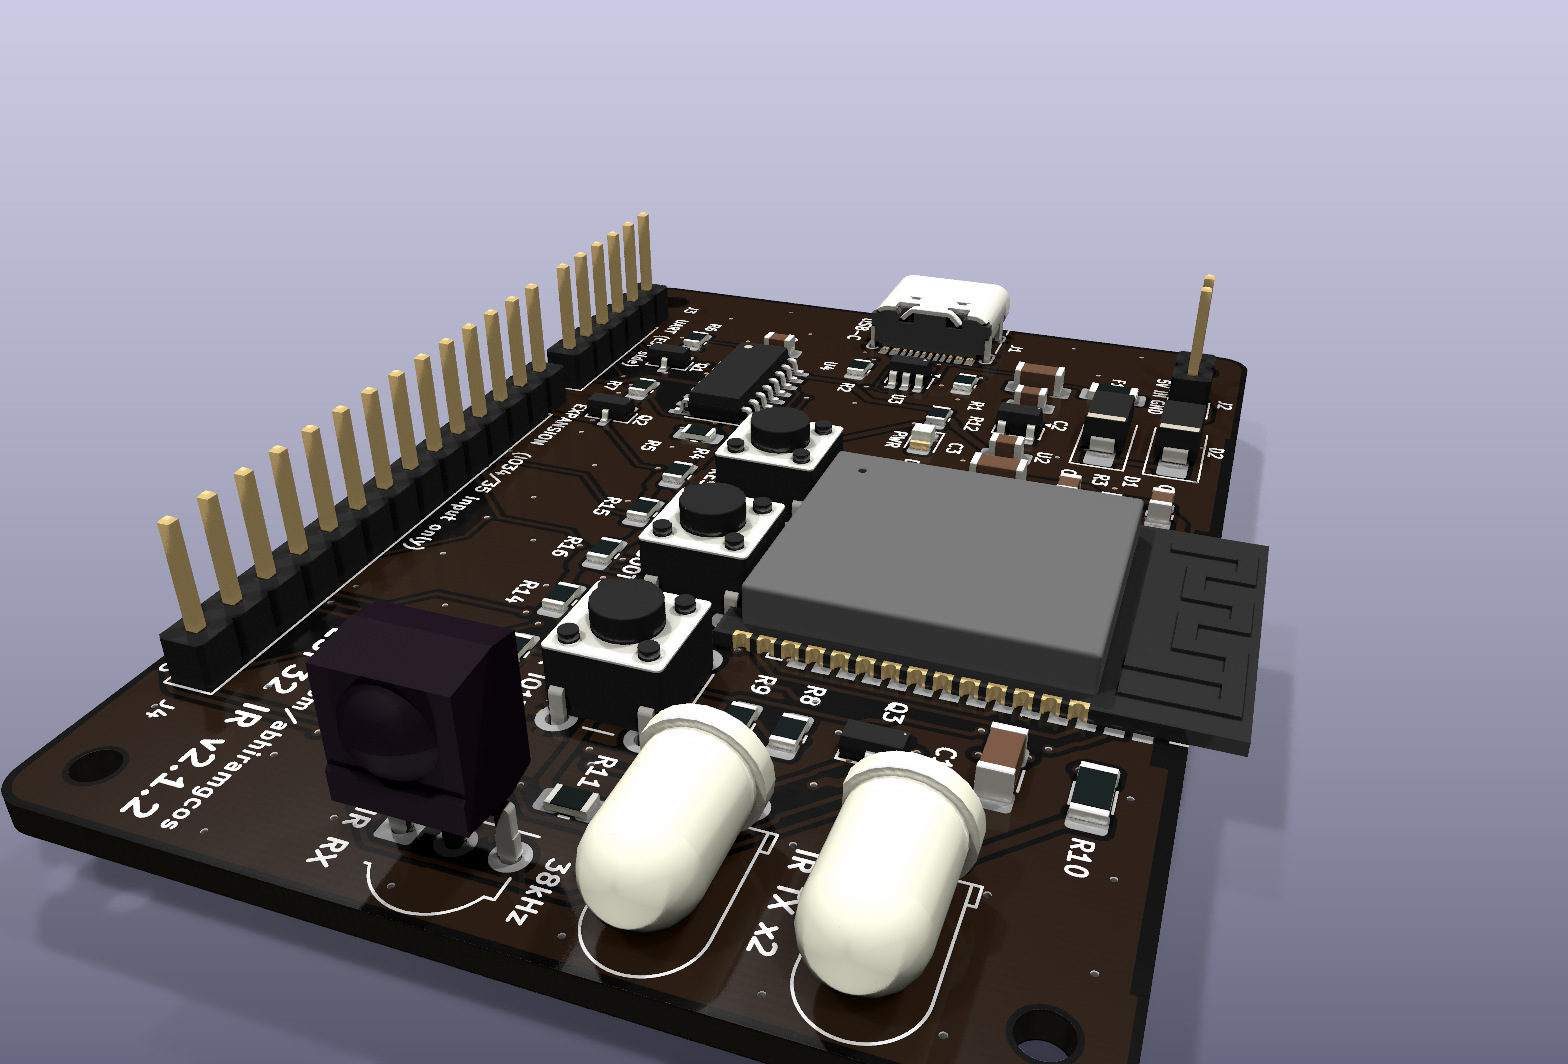
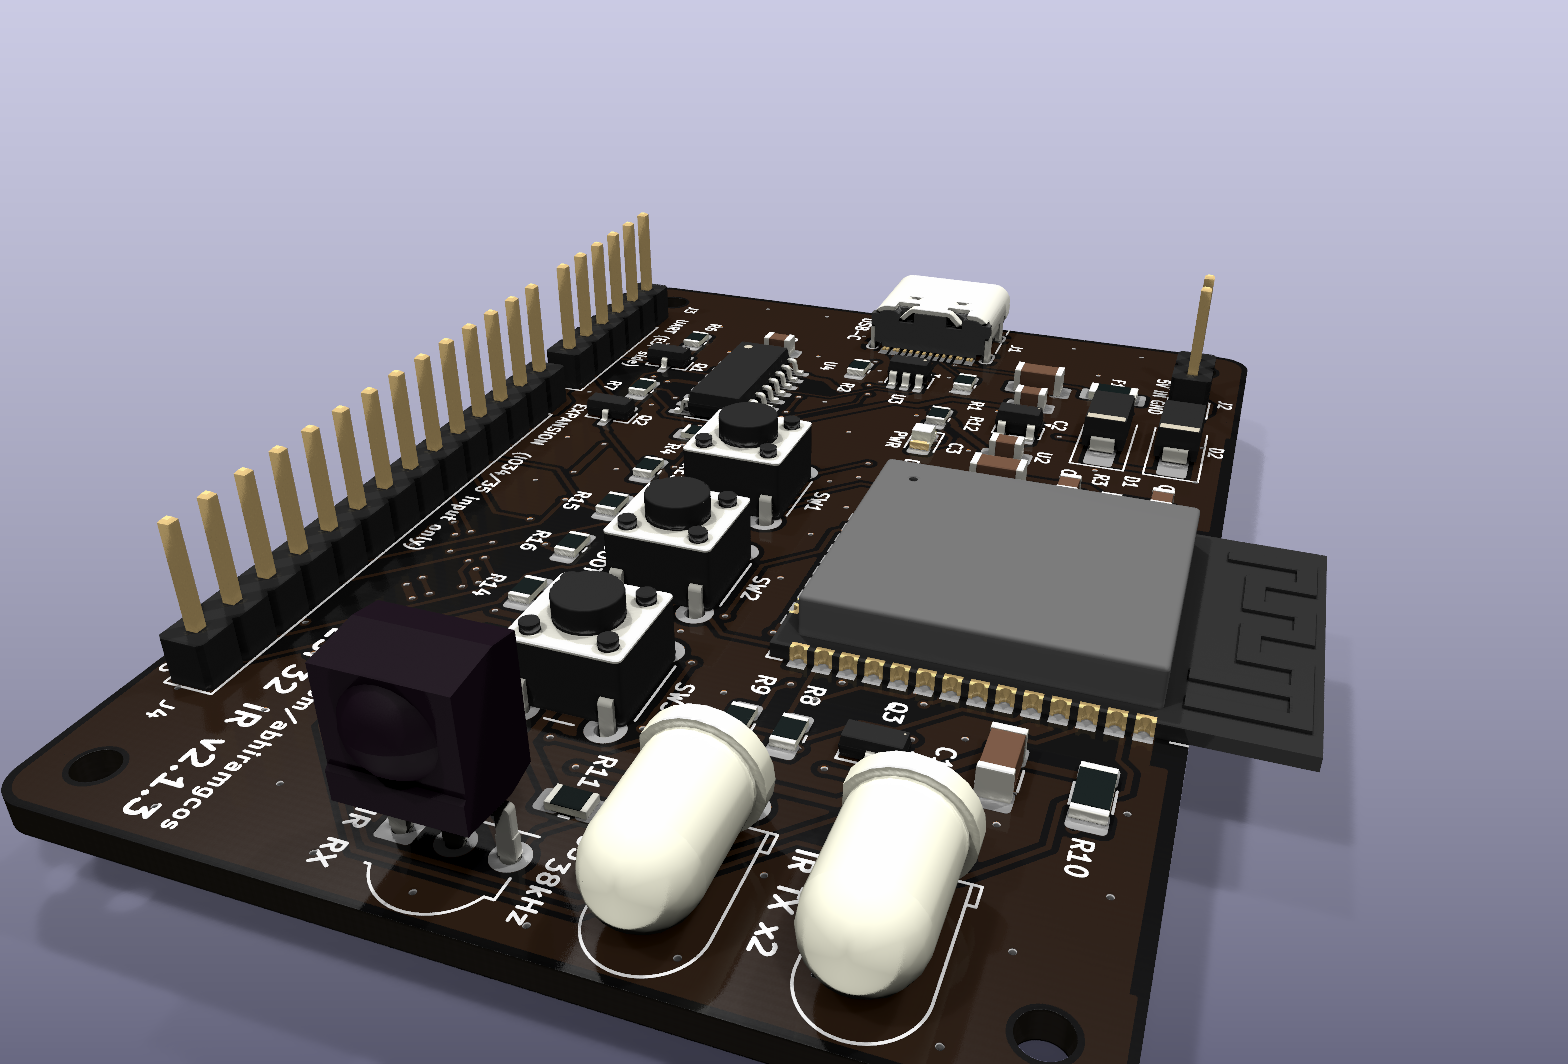
docs: v2.1.3 renders and changelog

diff --git a/CHANGELOG.md b/CHANGELOG.md
@@ -2,6 +2,16 @@
 
 Hardware and firmware share one version number. Hardware revisions are printed on the PCB silkscreen.
 
+## [2.1.3] - 2026-11-20
+
+* Buttons (SW1–SW3) and the pull-up/LED row below them moved 2 mm down, away from the ESP32. The gap from
+  the module's bottom pads to the button pads grows from 1.5 mm to 3.5 mm (bodies 2.1 → 4.1 mm), leaving
+  room for a soldering iron or hot-air nozzle on the module's bottom pins.
+* Fixed the ESP32 3D model position: the -32E model was rendered 2.99 mm too low on the -32D footprint
+  (different footprint origins), which made the module look like it overlapped the buttons. Renders only;
+  copper and manufacturing files were never affected.
+* Board re-routed; BOM unchanged, pick-and-place updated. Firmware stays 2.1.1.
+
 ## [2.1.2] - 2026-11-20
 
 Silkscreen only; copper, drills and BOM are unchanged from 2.1.1. Firmware stays 2.1.1.
@@ -90,6 +100,7 @@ JLCPCB BOM/CPL files.
 Original board. Only fab files exist; they are kept in `v1/fab/`. The review is in
 [docs/v1-review.md](docs/v1-review.md).
 
+[2.1.3]: https://github.com/abhiramgcos/Esp_ir_board/releases/tag/v2.1.3
 [2.1.2]: https://github.com/abhiramgcos/Esp_ir_board/releases/tag/v2.1.2
 [2.1.1]: https://github.com/abhiramgcos/Esp_ir_board/releases/tag/v2.1.1
 [2.1.0]: https://github.com/abhiramgcos/Esp_ir_board/releases/tag/v2.1.0

diff --git a/README.md b/README.md
@@ -11,7 +11,7 @@ box, fan, LED strip) and plays them back from your phone, a script or Home Assis
 
 ![ESP32 IR Blaster, 3D render](docs/img/v2.1_3d_top_iso.png)
 
-<sub>KiCad 3D render of the v2.1.2 board, not a photo. The USB-C model is a stand-in for the HRO part.</sub>
+<sub>KiCad 3D render of the v2.1.3 board, not a photo. The USB-C model is a stand-in for the HRO part.</sub>
 
 ## Features
 
@@ -191,7 +191,7 @@ The remaining DRC **warnings** are expected:
 
 ## Status
 
-* v2.1.2 hardware and v2.1.1 firmware are complete and verified by the checks above. **No board has been
+* v2.1.3 hardware and v2.1.1 firmware are complete and verified by the checks above. **No board has been
   manufactured yet**, so treat the first build as a prototype run.
 * Every SMD part has a verified, in-stock LCSC number, so JLCPCB's BOM tool matches the whole BOM
   automatically. The through-hole parts (IR LEDs, TSOP, buttons, headers) are left for hand soldering.

diff --git a/docs/COMPONENTS.md b/docs/COMPONENTS.md
@@ -1,6 +1,6 @@
 # Components: what each part does, what to buy, and safe alternatives
 
-**Board:** ESP32 IR Blaster/Receiver v2.1.2, 68 × 48 mm, 2 layers, 51 parts.
+**Board:** ESP32 IR Blaster/Receiver v2.1.3, 68 × 48 mm, 2 layers, 51 parts.
 
 The machine-readable BOM is in `fab/BOM_full.csv`; the JLCPCB-format BOM and pick-and-place files are in
 `fab/`. Values come from [`gen/circuit.py`](../gen/circuit.py), the single source of truth for the design.
